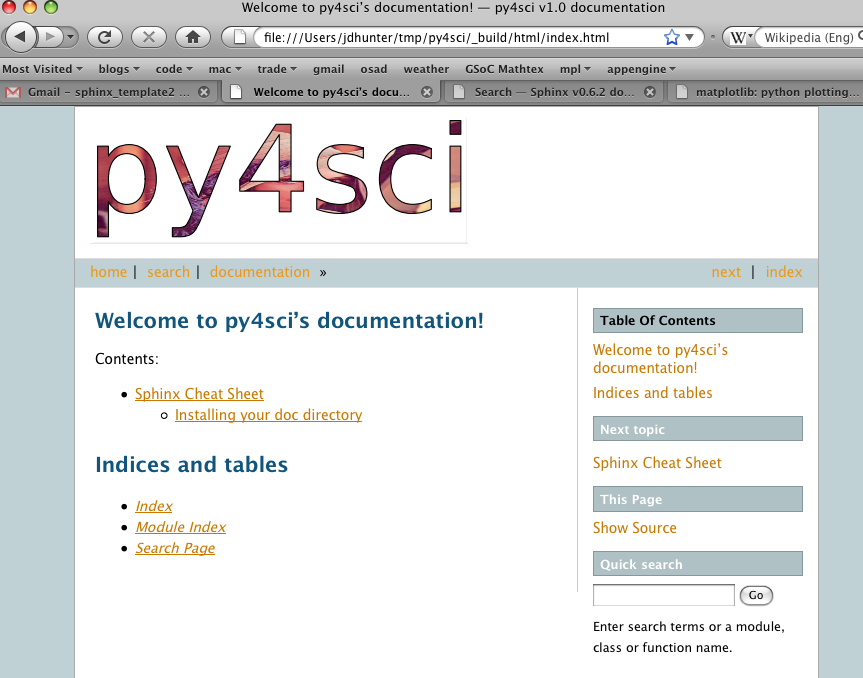
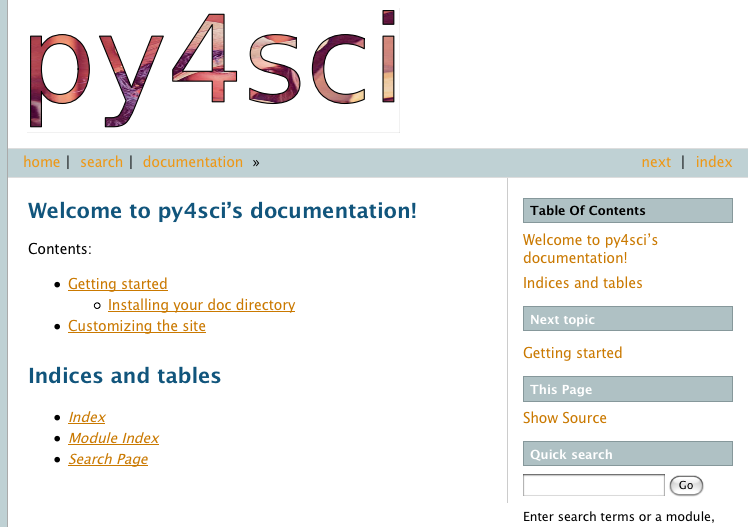
update fancy screenshot
svn path=/trunk/py4science/; revision=7455

diff --git a/examples/sphinx_qs/custom_look.rst b/examples/sphinx_qs/custom_look.rst
@@ -5,13 +5,14 @@
 Customizing the site
 *********************
 
-the `<http://sphinx.pocoo.org/>`_ site itself looks better than the
-sites created with the default css, so here we'll invoke Tufte's
+The `sphinx <http://sphinx.pocoo.org/>`_ site itself looks better than
+the sites created with the default css, so here we'll invoke Tufte's
 phrase "Intelligence imitates but genious steals and grab their css
 and part of their layout.  As before, you can either get the required
-files :file:`_static/default.css`, :file:`_templates:layout.html` and :file:`_static\logo.png`
-from the website or svn (see :ref:`fetching-the-data`).  Since I did a
-svn checkout before, I will just copy the stuff I need from there::
+files :file:`_static/default.css`, :file:`_templates:layout.html` and
+:file:`_static\logo.png` from the website or svn (see
+:ref:`fetching-the-data`).  Since I did a svn checkout before, I will
+just copy the stuff I need from there::
 
     home:~/tmp/py4sci> cp ../sphinx_qs/_static/default.css _static/
     home:~/tmp/py4sci> cp ../sphinx_qs/_templates/layout.html _templates/
@@ -23,9 +24,15 @@ svn checkout before, I will just copy the stuff I need from there::
     _templates/:
     layout.html
 
-Sphinx will automatically pick up the css and layout html files since we put them in the
-default places with the default names, but we have to manually include the logo in our :file:`layout.html`.  Let's take a look at the
-layout file: the first part puts a horizontal navigation bar at the top of our page, like you see on the `sphinx <http://sphinx.pocoo.org>`_ and `matplotlib <http://matplotlib.sourceforge.net/>`_ sites, the second part includes a logo that when we click on it will take us `home` and the last part moves the vertical navigation panels to the right side of the page.
+Sphinx will automatically pick up the css and layout html files since
+we put them in the default places with the default names, but we have
+to manually include the logo in our :file:`layout.html`.  Let's take a
+look at the layout file: the first part puts a horizontal navigation
+bar at the top of our page, like you see on the `sphinx
+<http://sphinx.pocoo.org>`_ and `matplotlib
+<http://matplotlib.sourceforge.net/>`_ sites, the second part includes
+a logo that when we click on it will take us `home` and the last part
+moves the vertical navigation panels to the right side of the page::
 
     {% extends "!layout.html" %}
 
@@ -49,3 +56,7 @@ layout file: the first part puts a horizontal navigation bar at the top of our p
     {# put the sidebar before the body #}
     {% block sidebar1 %}{{ sidebar() }}{% endblock %}
     {% block sidebar2 %}{% endblock %}
+
+Once you rebuild the site with a ``make html`` and reload the page in your browser, you should see a fancier site that looks like this
+
+.. image:: _static/fancy_screenshot.png

diff --git a/examples/sphinx_qs/getting_started.rst b/examples/sphinx_qs/getting_started.rst
@@ -1,9 +1,9 @@
-.. _sphinx_helpers:
+.. _getting_started:
 
 
-******************
-Sphinx Cheat Sheet
-******************
+***************
+Getting started
+***************
 
 Cheat sheet on how to make this site and install these extensions and
 other goodies.  You can see a literal version of this file below in
@@ -103,4 +103,7 @@ there this page with the screenshot.  `Voila!`
 
 Next we'll customize the look and feel of our site to give it a logo,
 some custom css, and update the navigation panels to look more like
-the `<http://sphinx.pocoo.org/>`_ site itself -- see :ref:`custom_look`.
+the `sphinx <http://sphinx.pocoo.org/>`_ site itself -- see
+:ref:`custom_look`.
+
+

diff --git a/examples/sphinx_qs/index.rst b/examples/sphinx_qs/index.rst
@@ -12,6 +12,7 @@ Contents:
    :maxdepth: 2
 
    getting_started.rst
+   custom_look.rst
 
 Indices and tables
 ==================
